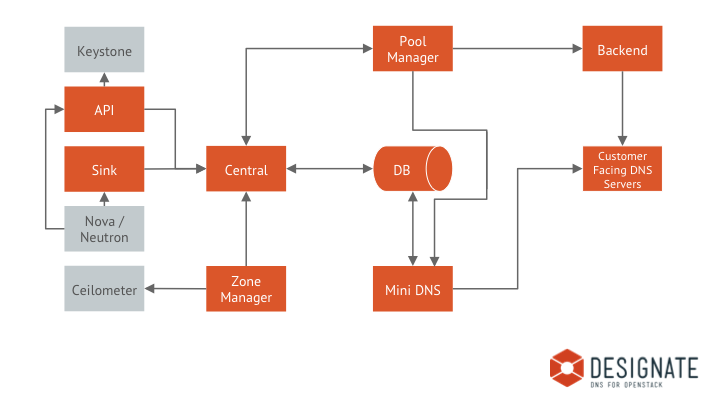
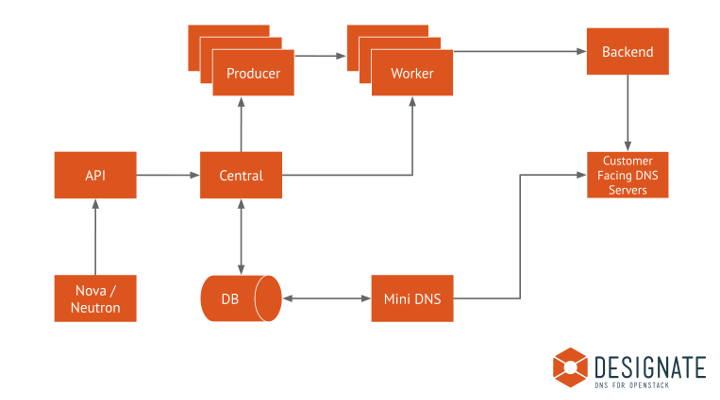
Update Architecture Doc
Add new services and update descriptions, add a high-level
description of what Designate is.

New picture: http://i.imgur.com/UlDJi3t.png

Changed region(s): [[0.0611, 0.06, 0.9472, 0.81], [0.0611, 0.06, 0.2444, 0.33], [0.7639, 0.84, 0.9778, 0.99]]

diff --git a/doc/source/architecture.rst b/doc/source/architecture.rst
@@ -19,6 +19,8 @@
 Architecture
 ============
 
+Designate provides multi-tenant DNS as a Service. Designate provides a REST API, applies business logic, persists DNS data to a database, and orchestrates the propagation of the DNS data to configured pools of DNS servers. For a more detailed breakdown of responsibilities and components, see the components below.
+
 .. index::
     double: architecture; brief
 
@@ -47,19 +49,19 @@ Designate MiniDNS
 -----------------------
 designate-mdns is the service that sends DNS NOTIFY and answers zone transfer (AXFR) requests. This allows Designate to integrate with any DNS server that supports these very standard methods of communicating. designate-mdns also encapsulates all other forms of DNS protocol that Designate performs. For example, sending SOA queries to check that a change is live.
 
-.. _designate-pool-manager:
+.. _designate-worker:
 
-Designate Pool Manager
------------------------
-designate-pool-manager is a service that manages the states of the DNS servers Designate manages. The Pool Manager is configured to know which DNS servers Designate manages, and their type of backend (PowerDNS, BIND9, etc). It can also divide those servers into 'Pools' so that zones within Designate can be split across different sets of backend servers. The Pool Manager is also responsible for making sure that backend DNS servers are in sync with the Designate database.
+Designate Worker
+----------------
+designate-worker is a service that manages state of the DNS servers Designate manages, and any other long-running or otherwise complicated piece of work. The worker reads configuration for DNS servers from the Designate database, which is populated via the pools.yaml file. These DNS server backends are loaded into the worker so it understands how to create, update, and delete zones and recordsets on each DNS server. The Worker is fully aware of DNS Server 'Pools', so a single worker process can manage many pools of DNS servers.
 
-.. _designate-zone-manager:
+.. _designate-producer:
 
-Designate Zone Manager
------------------------
-designate-zone-manager is a service that handle all periodic tasks relating to the zone shard it is responsible for. A zone shard is a collection of zones allocated based on first three characters of zone UUID.
+Designate Producer
+------------------
+designate-producer is a service that handles the invocation of long-running and potentially large jobs. Producer processes start work for an automatically assigned shard of the zones Designate manages. Shards are allocated based on the first three characters of the zone ID (a UUID field). The number of shards under management of a single producer process is equal to the total number of shards divided by the number of producer processes. This means the more producer processes are started, the less work is created at any one time.
 
-The current implemented periodic tasks in zone manager include emitting dns.zone.exists events for Ceilometer, purging deleted zones from database, polling secondary zones at their refresh intervals, and generating delayed NOTIFY transactions.
+The current implemented tasks in producer include emitting dns.zone.exists events for Ceilometer, purging deleted zones from database, polling secondary zones at their refresh intervals, generating delayed NOTIFY transactions, and invoking a periodic recovery of zones in an error state.
 
 .. _designate-sink:
 

diff --git a/doc/source/install/ubuntu-dev.rst b/doc/source/install/ubuntu-dev.rst
@@ -18,7 +18,7 @@ Development Environment on Ubuntu
 *********************************
 
 Designate is comprised of four main components :ref:`designate-api`, :ref:`designate-central`,
-:ref:`designate-mdns`, and :ref:`designate-pool-manager`, supported by a few
+designate-mdns, and designate-pool-manager, supported by a few
 standard open source components. For more information see :ref:`architecture`.
 
 There are many different options for customizing Designate, and two of these options
